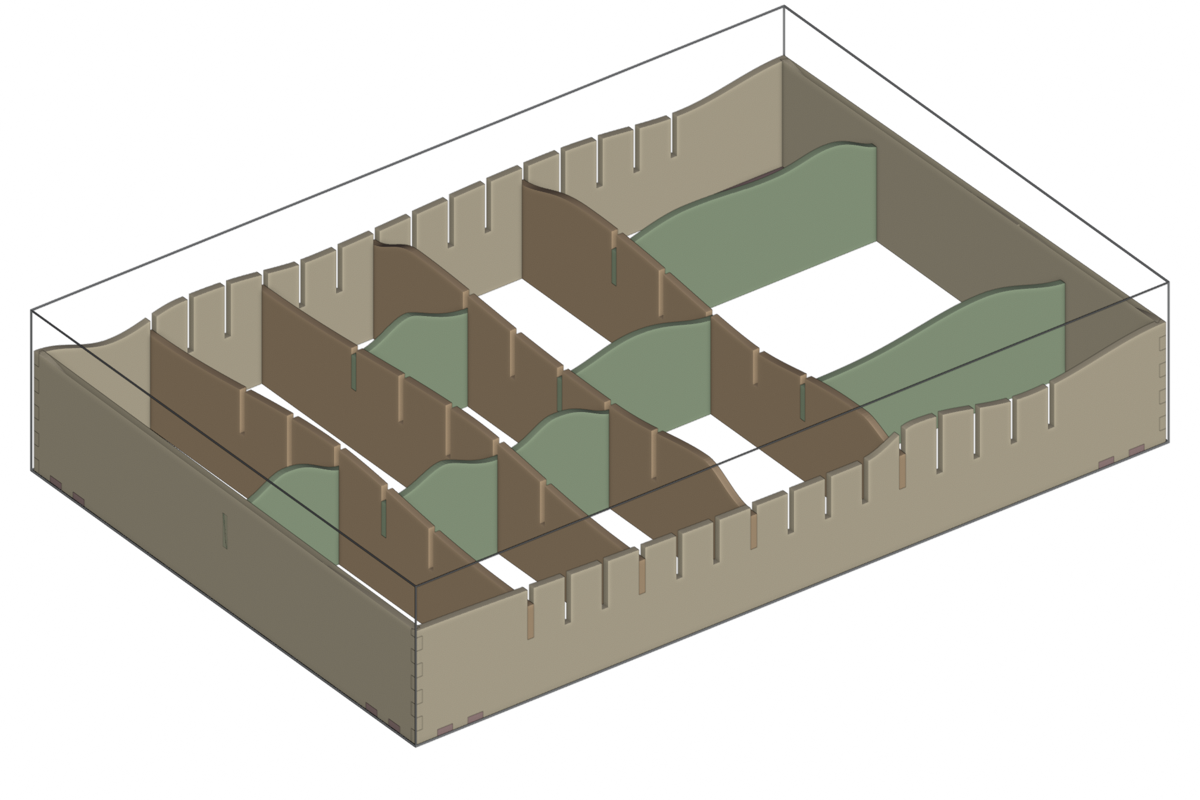
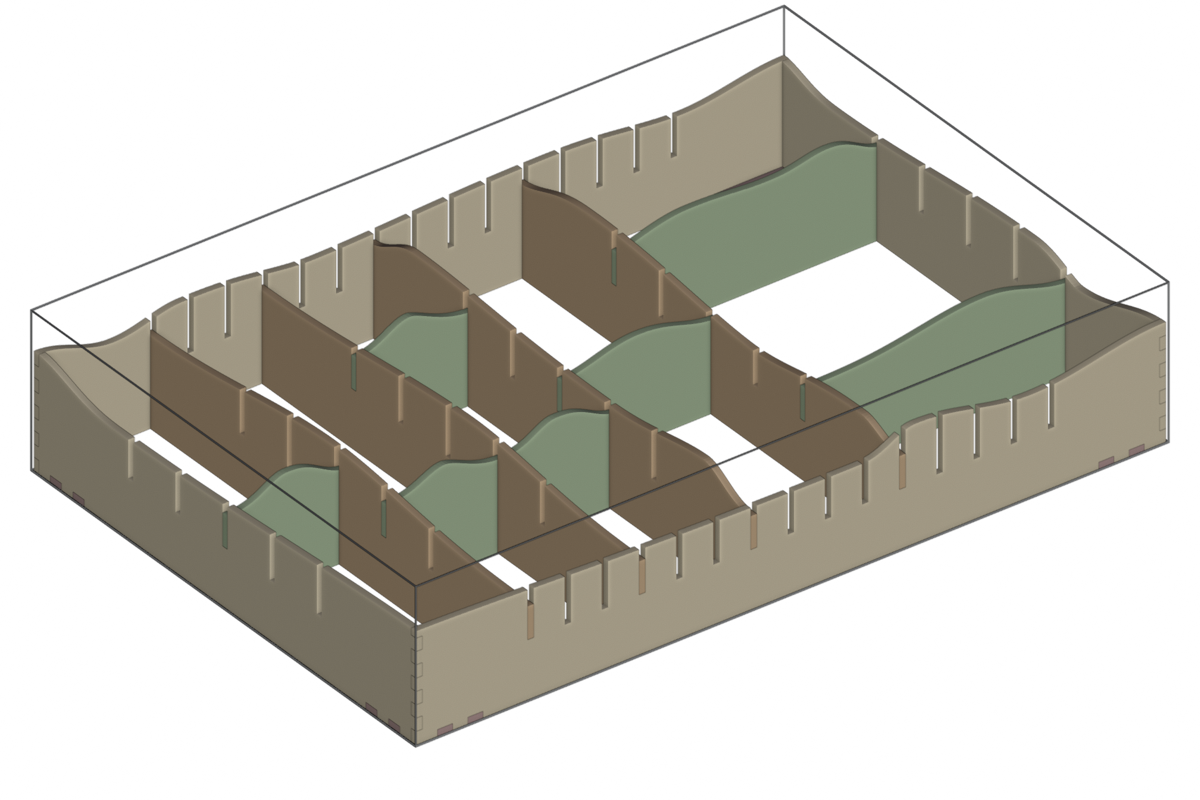
Fix side-wall slots vanishing in renders with curved tops
A side notch that reaches the top edge removes the corner, but the outline
walk still traced the top run from the corner, leaving a zero-width sliver
that made Blender's ear clipping fill the wall's slots. The top run now starts
and ends at the notch's inner face. simplify() dedupes before removing
collinear points so a corner visited twice is kept. Adds a left elevation
view and a sliver test.

Claude-Session: https://claude.ai/code/session_01LZycd3S2pwbAJV8HQ6xUfH

Changed region(s): [[0.6475, 0.0625, 0.9558, 0.4062], [0.0308, 0.4375, 0.3083, 0.75]]

diff --git a/lasercut/panel.py b/lasercut/panel.py
@@ -149,16 +149,31 @@ class PanelOutline:
             for n in sorted(self.bottom, key=lambda n: n.start):
                 pts += [(n.start, 0.0), (n.start, n.depth), (n.end, n.depth), (n.end, 0.0)]
             pts.append((L, 0.0))
-            for n in self._clipped(self.right, f(L)):
-                pts += [(L, n.start), (L - n.depth, n.start), (L - n.depth, n.end), (L, n.end)]
-            x = L
+            # A side notch that reaches the top edge removes the corner, so the top
+            # edge must start (or end) at the notch's inner face, not at the corner;
+            # otherwise a curved top leaves a zero-width sliver over the notch.
+            right = self._clipped(self.right, f(L))
+            x_start = L
+            for n in right:
+                pts += [(L, n.start), (L - n.depth, n.start), (L - n.depth, n.end)]
+                if n.end >= f(L) - EPS:
+                    x_start = L - n.depth
+                else:
+                    pts.append((L, n.end))
+            left = self._clipped(self.left, f(0.0))
+            x_end = 0.0
+            if left and left[-1].end >= f(0.0) - EPS:
+                x_end = left[-1].depth
+            x = x_start
             for n in sorted(self.top, key=lambda n: n.start, reverse=True):
                 pts += self._top_run(f, n.end, x)
                 pts += [(n.end, H - n.depth), (n.start, H - n.depth)]
                 x = n.start
-            pts += self._top_run(f, 0.0, x)
-            for n in reversed(self._clipped(self.left, f(0.0))):
-                pts += [(0.0, n.end), (n.depth, n.end), (n.depth, n.start), (0.0, n.start)]
+            pts += self._top_run(f, x_end, x)
+            for n in reversed(left):
+                if n.end < f(0.0) - EPS:
+                    pts.append((0.0, n.end))
+                pts += [(n.depth, n.end), (n.depth, n.start), (0.0, n.start)]
             self._points = simplify(pts)
         return list(self._points)
 
@@ -258,10 +273,17 @@ def _close(a: Point, b: Point) -> bool:
 
 
 def simplify(pts: list[Point]) -> list[Point]:
-    """Drop repeated points and any point lying on the straight line through its
-    neighbours. That also removes the spikes the edge walk leaves at a notched
-    corner (it steps to the corner and straight back)."""
-    pts = list(pts)
+    """Drop repeated points, then any point lying on the straight line through its
+    neighbours. The second step also removes the spikes the edge walk leaves at a
+    notched corner (it steps to the corner and straight back). Duplicates go first
+    so a real corner visited twice is not mistaken for a spike."""
+    deduped: list[Point] = []
+    for p in pts:
+        if not deduped or not _close(p, deduped[-1]):
+            deduped.append(p)
+    while len(deduped) > 1 and _close(deduped[0], deduped[-1]):
+        deduped.pop()
+    pts = deduped
     changed = True
     while changed and len(pts) > 3:
         changed = False
@@ -269,7 +291,7 @@ def simplify(pts: list[Point]) -> list[Point]:
         n = len(pts)
         for i, p in enumerate(pts):
             a, b = pts[i - 1], pts[(i + 1) % n]
-            if _close(p, a) or abs(_cross(a, p, b)) < EPS:
+            if abs(_cross(a, p, b)) < EPS:
                 changed = True
                 continue
             kept.append(p)

diff --git a/tests/test_panel.py b/tests/test_panel.py
@@ -176,7 +176,9 @@ def test_side_notches_clip_to_a_low_corner():
     p = PanelOutline(10, 4.5, left=fingers, right=fingers, top_profile=f)
     pts = p.points()
     assert max(y for _, y in pts) <= 4.5 + 1e-9
-    assert (0.25, 4.2) in pts and (9.75, 4.3) in pts       # clipped notch corners
+    # clipped notch corners (the curve may add a hair of height at the inner face)
+    assert any(x == 0.25 and abs(y - 4.2) < 0.002 for x, y in pts)
+    assert any(x == 9.75 and abs(y - 4.3) < 0.002 for x, y in pts)
     assert not any(abs(x) < 1e-9 and y > 4.2 + 1e-9 for x, y in pts)
 
 
@@ -189,3 +191,36 @@ def test_wander_caps_the_slope():
     ys = [f(x / 32) for x in range(12 * 32 + 1)]
     assert max(abs(b - a) for a, b in zip(ys, ys[1:])) <= (1 / 32) * math.tan(math.radians(31))
     assert f(0) == 3.5 and f(12) == 3.5
+
+
+def has_sliver(pts):
+    """True if the outline doubles back on itself: two consecutive edges pointing in
+    nearly opposite directions."""
+    n = len(pts)
+    for i in range(n):
+        (ax, ay), (bx, by), (cx, cy) = pts[i - 1], pts[i], pts[(i + 1) % n]
+        ux, uy, vx, vy = bx - ax, by - ay, cx - bx, cy - by
+        lu, lv = (ux * ux + uy * uy) ** 0.5, (vx * vx + vy * vy) ** 0.5
+        if lu == 0 or lv == 0:
+            return True
+        cos = (ux * vx + uy * vy) / (lu * lv)
+        if cos < -0.999:
+            return True
+    return False
+
+
+def test_curved_top_over_corner_notches_leaves_no_sliver():
+    from lasercut.panel import Profile
+    fingers = finger_notches(4.5, 0.25, 9, notch_first=True)
+    f = Profile([(0, 4.3), (7, 3.6), (14, 4.4), (20, 4.1)])
+    slots = [Notch.centered(x, 0.25, 2.25) for x in (5.0, 10.0, 15.0)]
+    p = PanelOutline(20, 4.5, left=fingers, right=fingers, top=slots, top_profile=f)
+    pts = p.points()
+    assert not has_sliver(pts)
+    # nothing above the top corner notches within the neighbouring wall's thickness
+    assert all(y <= 4.0 + 1e-9 for x, y in pts if x < 0.25 - 1e-9 or x > 19.75 + 1e-9)
+    assert sum(1 for x, y in pts if abs(y - 2.25) < 1e-9) == 6
+    # and the plain rectangular case is unchanged
+    q = PanelOutline(20, 4.5, left=fingers, right=fingers, top=slots)
+    assert not has_sliver(q.points())
+    assert (19.75, 4.5) in q.points() and (0.25, 4.5) in q.points()

diff --git a/lasercut/blender.py b/lasercut/blender.py
@@ -102,6 +102,7 @@ VIEW_ROTATIONS = {
     # camera looks along its local -Z; these orient that axis for each named view
     "top": Quaternion((1.0, 0.0, 0.0, 0.0)),
     "front": Euler((math.pi / 2, 0.0, 0.0)).to_quaternion(),
+    "left": Euler((math.pi / 2, 0.0, -math.pi / 2)).to_quaternion(),
     "iso": (-Vector((-0.75, -1.0, 0.8))).to_track_quat("-Z", "Y"),
     # steep look down into the front-left corner from inside the box
     "corner": Vector((-0.6, -0.8, -1.4)).to_track_quat("-Z", "Y"),

diff --git a/projects/drawer-organizer/README.md b/projects/drawer-organizer/README.md
@@ -10,6 +10,8 @@ any column front to back. Nothing is glued, so the layout can change later.
 
 ![Corner gusset, dropped out of its slots](renders/corner.png)
 
+![Left wall from outside](renders/left.png)
+
 ## The drawer
 
 | | inches |
